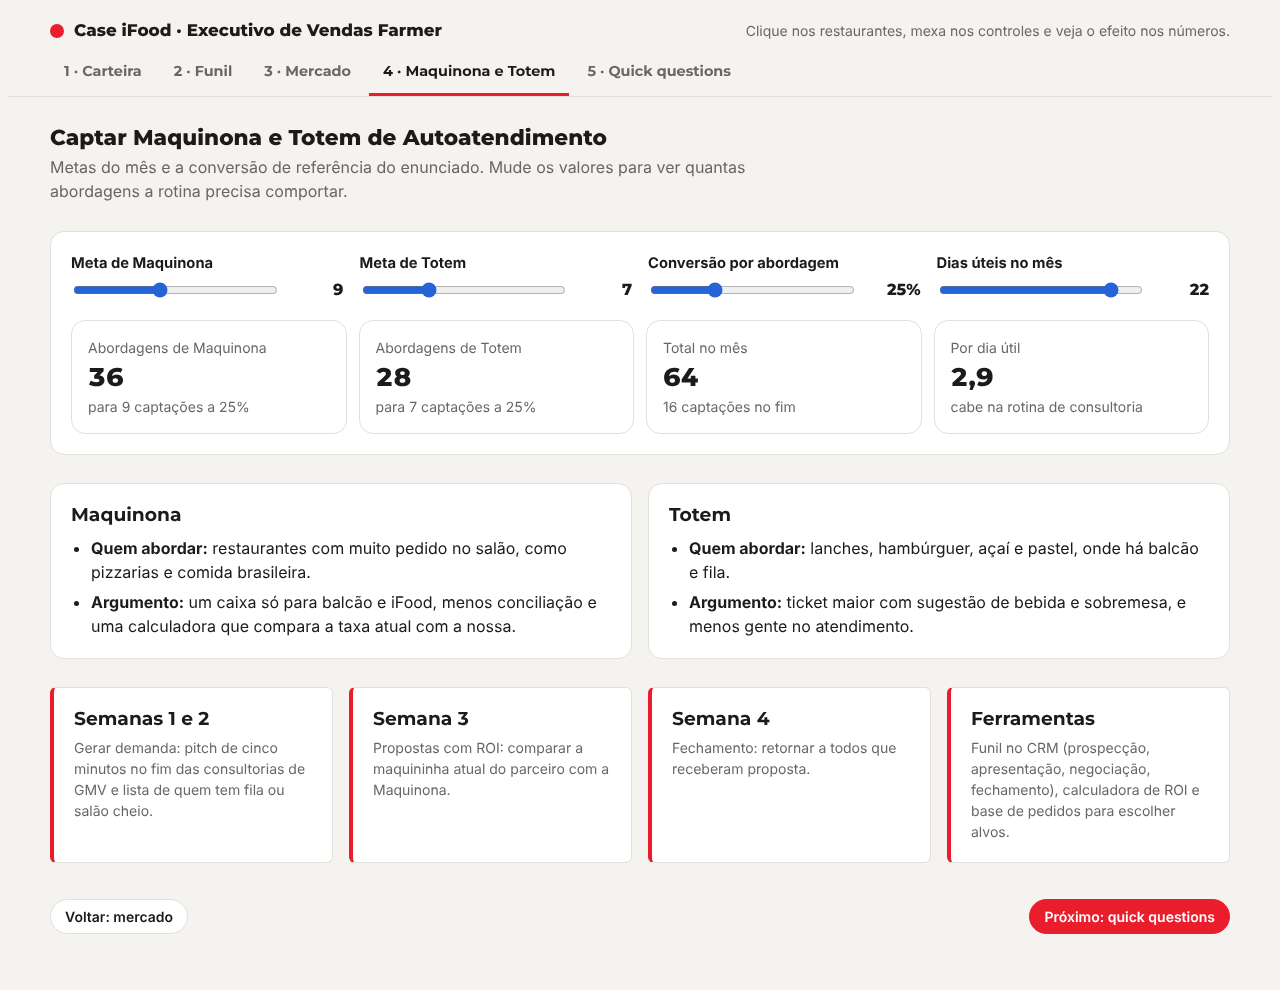
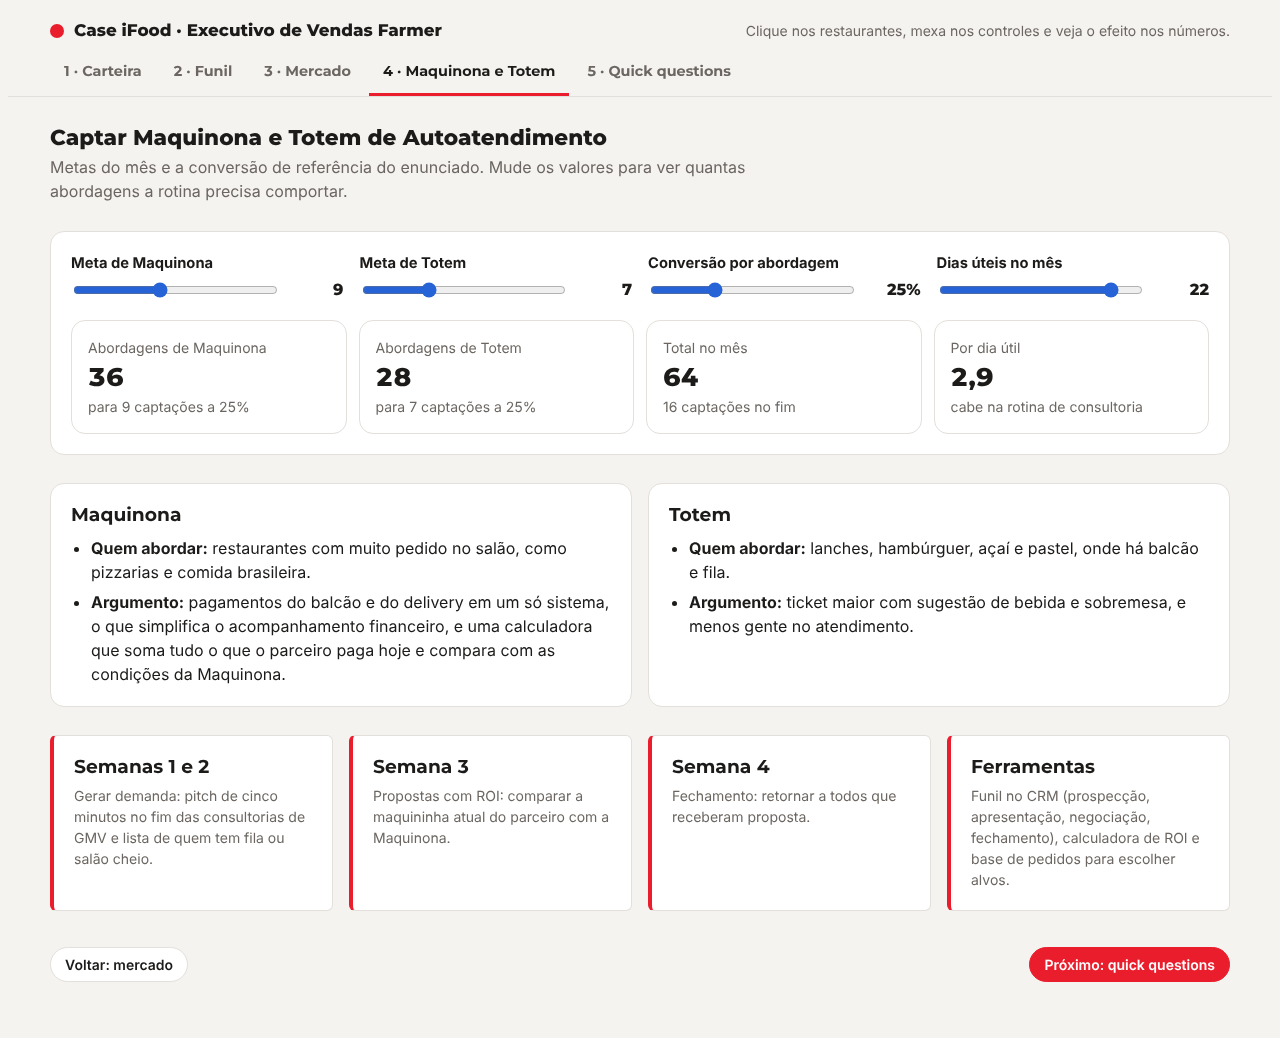
Ajusta a redação do argumento da Maquinona
Claude-Session: https://claude.ai/code/session_01DLuk8XG7ZteK3SKx9w2mrZ

diff --git a/index.html b/index.html
@@ -305,7 +305,7 @@ details ol,details ul,.card ul{margin:0;padding-left:20px;display:flex;flex-dire
   <div class="grid g2">
     <div class="card"><h3>Maquinona</h3><ul style="margin-top:10px">
       <li><b>Quem abordar:</b> restaurantes com muito pedido no salão, como pizzarias e comida brasileira.</li>
-      <li><b>Argumento:</b> um caixa só para balcão e iFood, menos conciliação e uma calculadora que compara a taxa atual com a nossa.</li></ul></div>
+      <li><b>Argumento:</b> pagamentos do balcão e do delivery em um só sistema, o que simplifica o acompanhamento financeiro, e uma calculadora que soma tudo o que o parceiro paga hoje e compara com as condições da Maquinona.</li></ul></div>
     <div class="card"><h3>Totem</h3><ul style="margin-top:10px">
       <li><b>Quem abordar:</b> lanches, hambúrguer, açaí e pastel, onde há balcão e fila.</li>
       <li><b>Argumento:</b> ticket maior com sugestão de bebida e sobremesa, e menos gente no atendimento.</li></ul></div>
